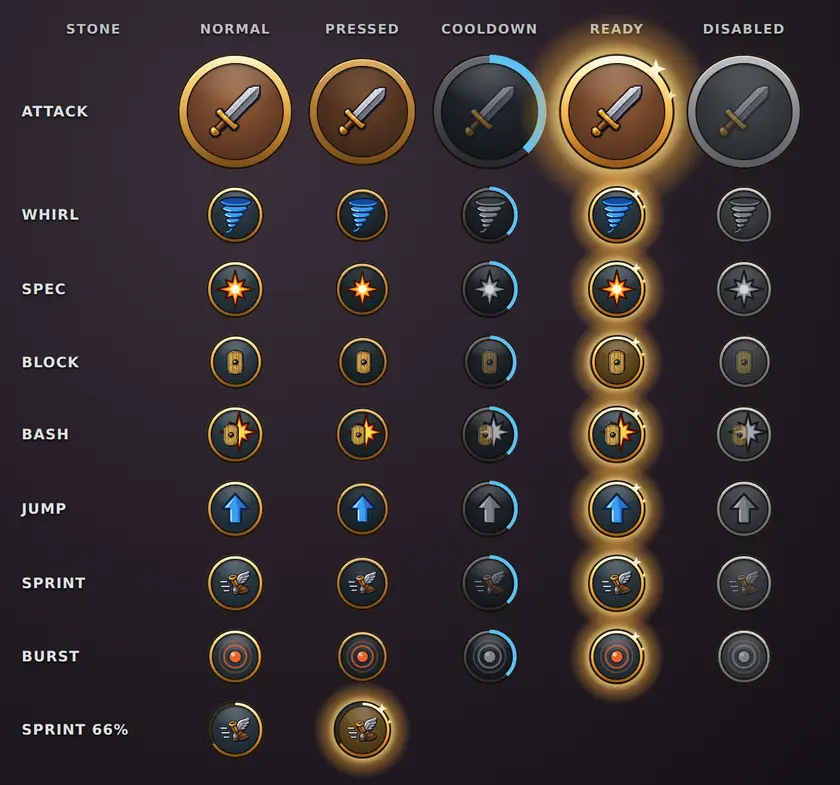
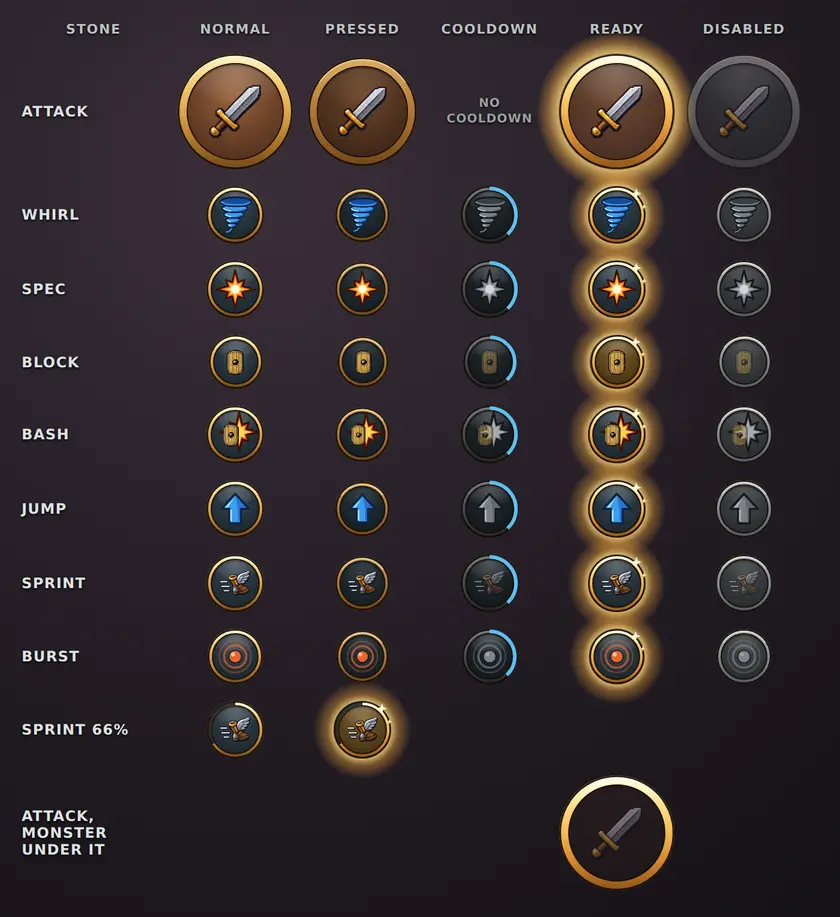
The attack button has no cooldown: the state sheet shows its own states, and a test pins it (v2.3.3018)
Owner: "No cooldown for base attack though".  The button-state sheet
(src/controls-harness.html) had copied the mockup's example, which drew Attack
in all five states, cooldown included.  In the game the attack button never
had one; the sheet now draws its real states through the disc's own game.css
rules (lit, pressed, hot, idle, and ghost on a row of its own) with "no
cooldown" in that column, mp-btnskin asserts the button shows no cooldown
while everything round it is cooling down, and control-redesign §14 says so.

Claude-Session: https://claude.ai/code/session_01147VqfFkSg2uLx4LHN7Ccj

diff --git a/src/controls-harness.html b/src/controls-harness.html
@@ -14,6 +14,7 @@
   .lab{justify-self:start;font-size:12px;font-weight:700;letter-spacing:.06em;text-transform:uppercase;color:#DDE3E1;text-shadow:0 1px 2px #000}
   .hd{font-size:11px;font-weight:700;letter-spacing:.08em;text-transform:uppercase;color:#B9C1BF;text-shadow:0 1px 2px #000}
   .cell{position:relative}
+  .none{font-size:10px;font-weight:700;letter-spacing:.06em;text-transform:uppercase;color:#96A2A0;text-align:center;line-height:1.3;text-shadow:0 1px 2px #000}
 </style>
 </head>
 <body>
@@ -39,8 +40,30 @@ function cell(size, tone, state, icon, extra) {
 
 /* the same sizes the buttons themselves use (TouchControls rIcon, and each
    button's own share of its size) */
+/* ═══ THE ATTACK BUTTON HAS NO COOLDOWN ═══
+   Owner, on the first version of this sheet: "No cooldown for base attack
+   though".  The mockup's sheet used Attack as its example of all five states,
+   and the first cut of this page copied that; the game's attack button has no
+   cooldown, and never draws the arc.  So its row is drawn with the disc's OWN
+   states, through the very rules game.css gives the disc (a .bt-rjoy-base
+   wrapper carrying the data-rstate BroTown's resolver stamps), at the
+   opacities the resolver stamps:  lit (Normal), pressed, hot (Ready /
+   Charged: a monster in reach, the face see-through), idle (Disabled: painted
+   for a moment with nothing to press, the 0.5 rung) -- and, on a row of its
+   own, ghost (a monster under it: the outline). */
+const ATTACK = { normal: 'lit', pressed: 'lit', ready: 'hot', disabled: 'idle', ghost: 'ghost' };
+function attackCell(state) {
+  const rs = ATTACK[state];
+  if (!rs) return h('div', { className: 'none' }, 'no', h('br'), 'cooldown');
+  return h('div', {
+    className: 'cell bt-rjoy-base', 'data-rstate': rs, 'data-ricon': 'melee',
+    'data-pressed': state === 'pressed' ? '1' : undefined,
+    style: { width: 96, height: 96, opacity: rs === 'idle' ? 0.5 : 1 },
+  }, h(Skin, { size: 96, tone: 'ember', faceProps: { style: { opacity: rs === 'hot' ? 0.45 : (rs === 'ghost' ? 0.08 : 1) } } },
+    h(PaintedIcon, { src: ICON_URL.melee, size: 58, dim: rs === 'ghost' })));
+}
+
 const ROWS = [
-  ['Attack', 96, 'ember', (s, g) => h(PaintedIcon, { src: ICON_URL.melee, size: 58, dim: g })],
   ['Whirl', 48, 'slate', (s, g) => h(TornadoIcon, { size: Math.round(s * 0.7), grey: g })],
   ['Spec', 48, 'slate', (s, g) => h(StarburstIcon, { size: Math.round(s * 0.7), grey: g })],
   ['Block', 45, 'slate', (s, g) => h(PaintedIcon, { src: ICON_URL.shield, size: Math.round(s * 0.62), dim: g, pixelated: true })],
@@ -53,15 +76,20 @@ const ROWS = [
 function Sheet({ ground }) {
   const kids = [h('div', { key: 'c', className: 'hd' }, ground)];
   STATES.forEach((s) => kids.push(h('div', { key: 'h' + s, className: 'hd' }, s)));
-  ROWS.forEach(([name, size, tone, icon]) => {
+  /* a row: its label, then five cells (padded, so the next row starts on its own line) */
+  const row = (name, cells) => {
     kids.push(h('div', { key: name, className: 'lab' }, name));
-    STATES.forEach((s) => kids.push(h('div', { key: name + s }, cell(size, s === 'ready' && name === 'Block' ? 'warm' : tone, s, icon))));
+    for (let i = 0; i < 5; i++) kids.push(h('div', { key: name + i }, cells[i] || null));
+  };
+  row('Attack', STATES.map(attackCell));
+  ROWS.forEach(([name, size, tone, icon]) => {
+    row(name, STATES.map((s) => cell(size, s === 'ready' && name === 'Block' ? 'warm' : tone, s, icon)));
   });
   /* the sprint ring as its stamina meter, two thirds left */
-  kids.push(h('div', { key: 'm', className: 'lab' }, 'Sprint 66%'));
   const sprintIcon = ROWS.find((r) => r[0] === 'Sprint')[3];
-  kids.push(h('div', { key: 'm1' }, cell(48, 'slate', 'normal', sprintIcon, { meter: 0.66 })));
-  kids.push(h('div', { key: 'm2' }, cell(48, 'warm', 'on', sprintIcon, { meter: 0.66 })));
+  row('Sprint 66%', [cell(48, 'slate', 'normal', sprintIcon, { meter: 0.66 }), cell(48, 'warm', 'on', sprintIcon, { meter: 0.66 })]);
+  /* the attack button with a monster under it (in the Ready column: it is a fight) */
+  row('Attack, monster under it', [null, null, null, attackCell('ghost')]);
   return h('div', { className: 'sheet ' + ground }, kids);
 }
 

diff --git a/docs/specs/control-redesign.md b/docs/specs/control-redesign.md
@@ -1474,11 +1474,11 @@ it.
 |---|---|---|
 | Normal | gold ring, the picture in colour | ready |
 | Pressed | pushed in (0.94), darker ring and face | a finger is on it (`data-pressed`, written on the button by the touch handlers) |
-| Cooldown | dark ring and face, the picture grey, a sky-blue arc closing round the ring | the 1.5s special, the abilities' cooldowns, the burst, the shield's stamina lockout; the glow swells once when the arc closes |
+| Cooldown | dark ring and face, the picture grey, a sky-blue arc closing round the ring | the 1.5s special, the abilities' cooldowns, the burst, the shield's stamina lockout; the glow swells once when the arc closes. **Never the attack button** — the base attack has no cooldown (owner: "No cooldown for base attack though", on the first state sheet, which had copied the mockup's Attack example) |
 | Ready / Charged | the ring lit, a warm halo, two sparkles | the bow's held special (with AIM under the star), the shield UP and the sprint ON (on the warm face), and the attack disc while a monster is in play |
 | Disabled | all grey | no mana, no stamina, no weapon for it; the attack disc painted for a moment with nothing to press |
 
-The attack disc's states are the resolver's (`data-rstate`): `idle`
+The attack disc has no cooldown state; its states are the resolver's (`data-rstate`): `idle`
 (Disabled), `lit` (Normal), `hot` (Ready / Charged — the owner's v2.3.2264 "only
 during combat it changes color (like to orange) keeping its transparency"),
 `ghost` (a monster under it: the face nearly gone, the ring and a faded picture

diff --git a/docs/shots/btnskin.md b/docs/shots/btnskin.md
@@ -30,7 +30,10 @@ over it.
 
 The owner's button sheet, drawn by the game's own code
 (`src/controls-harness.html`, saved by `node tools/qa/controls-sheet-shot.mjs`).
-The Jump row is ready for the real-jumping work (PR #782).
+The Attack row is the attack button's own states, drawn through the game's
+disc rules: it has **no cooldown** (the base attack has none; the mockup's
+sheet had used Attack as its example). The Jump row is ready for the
+real-jumping work (PR #782).
 
 ![sheet](btnskin-sheet.webp)
 
